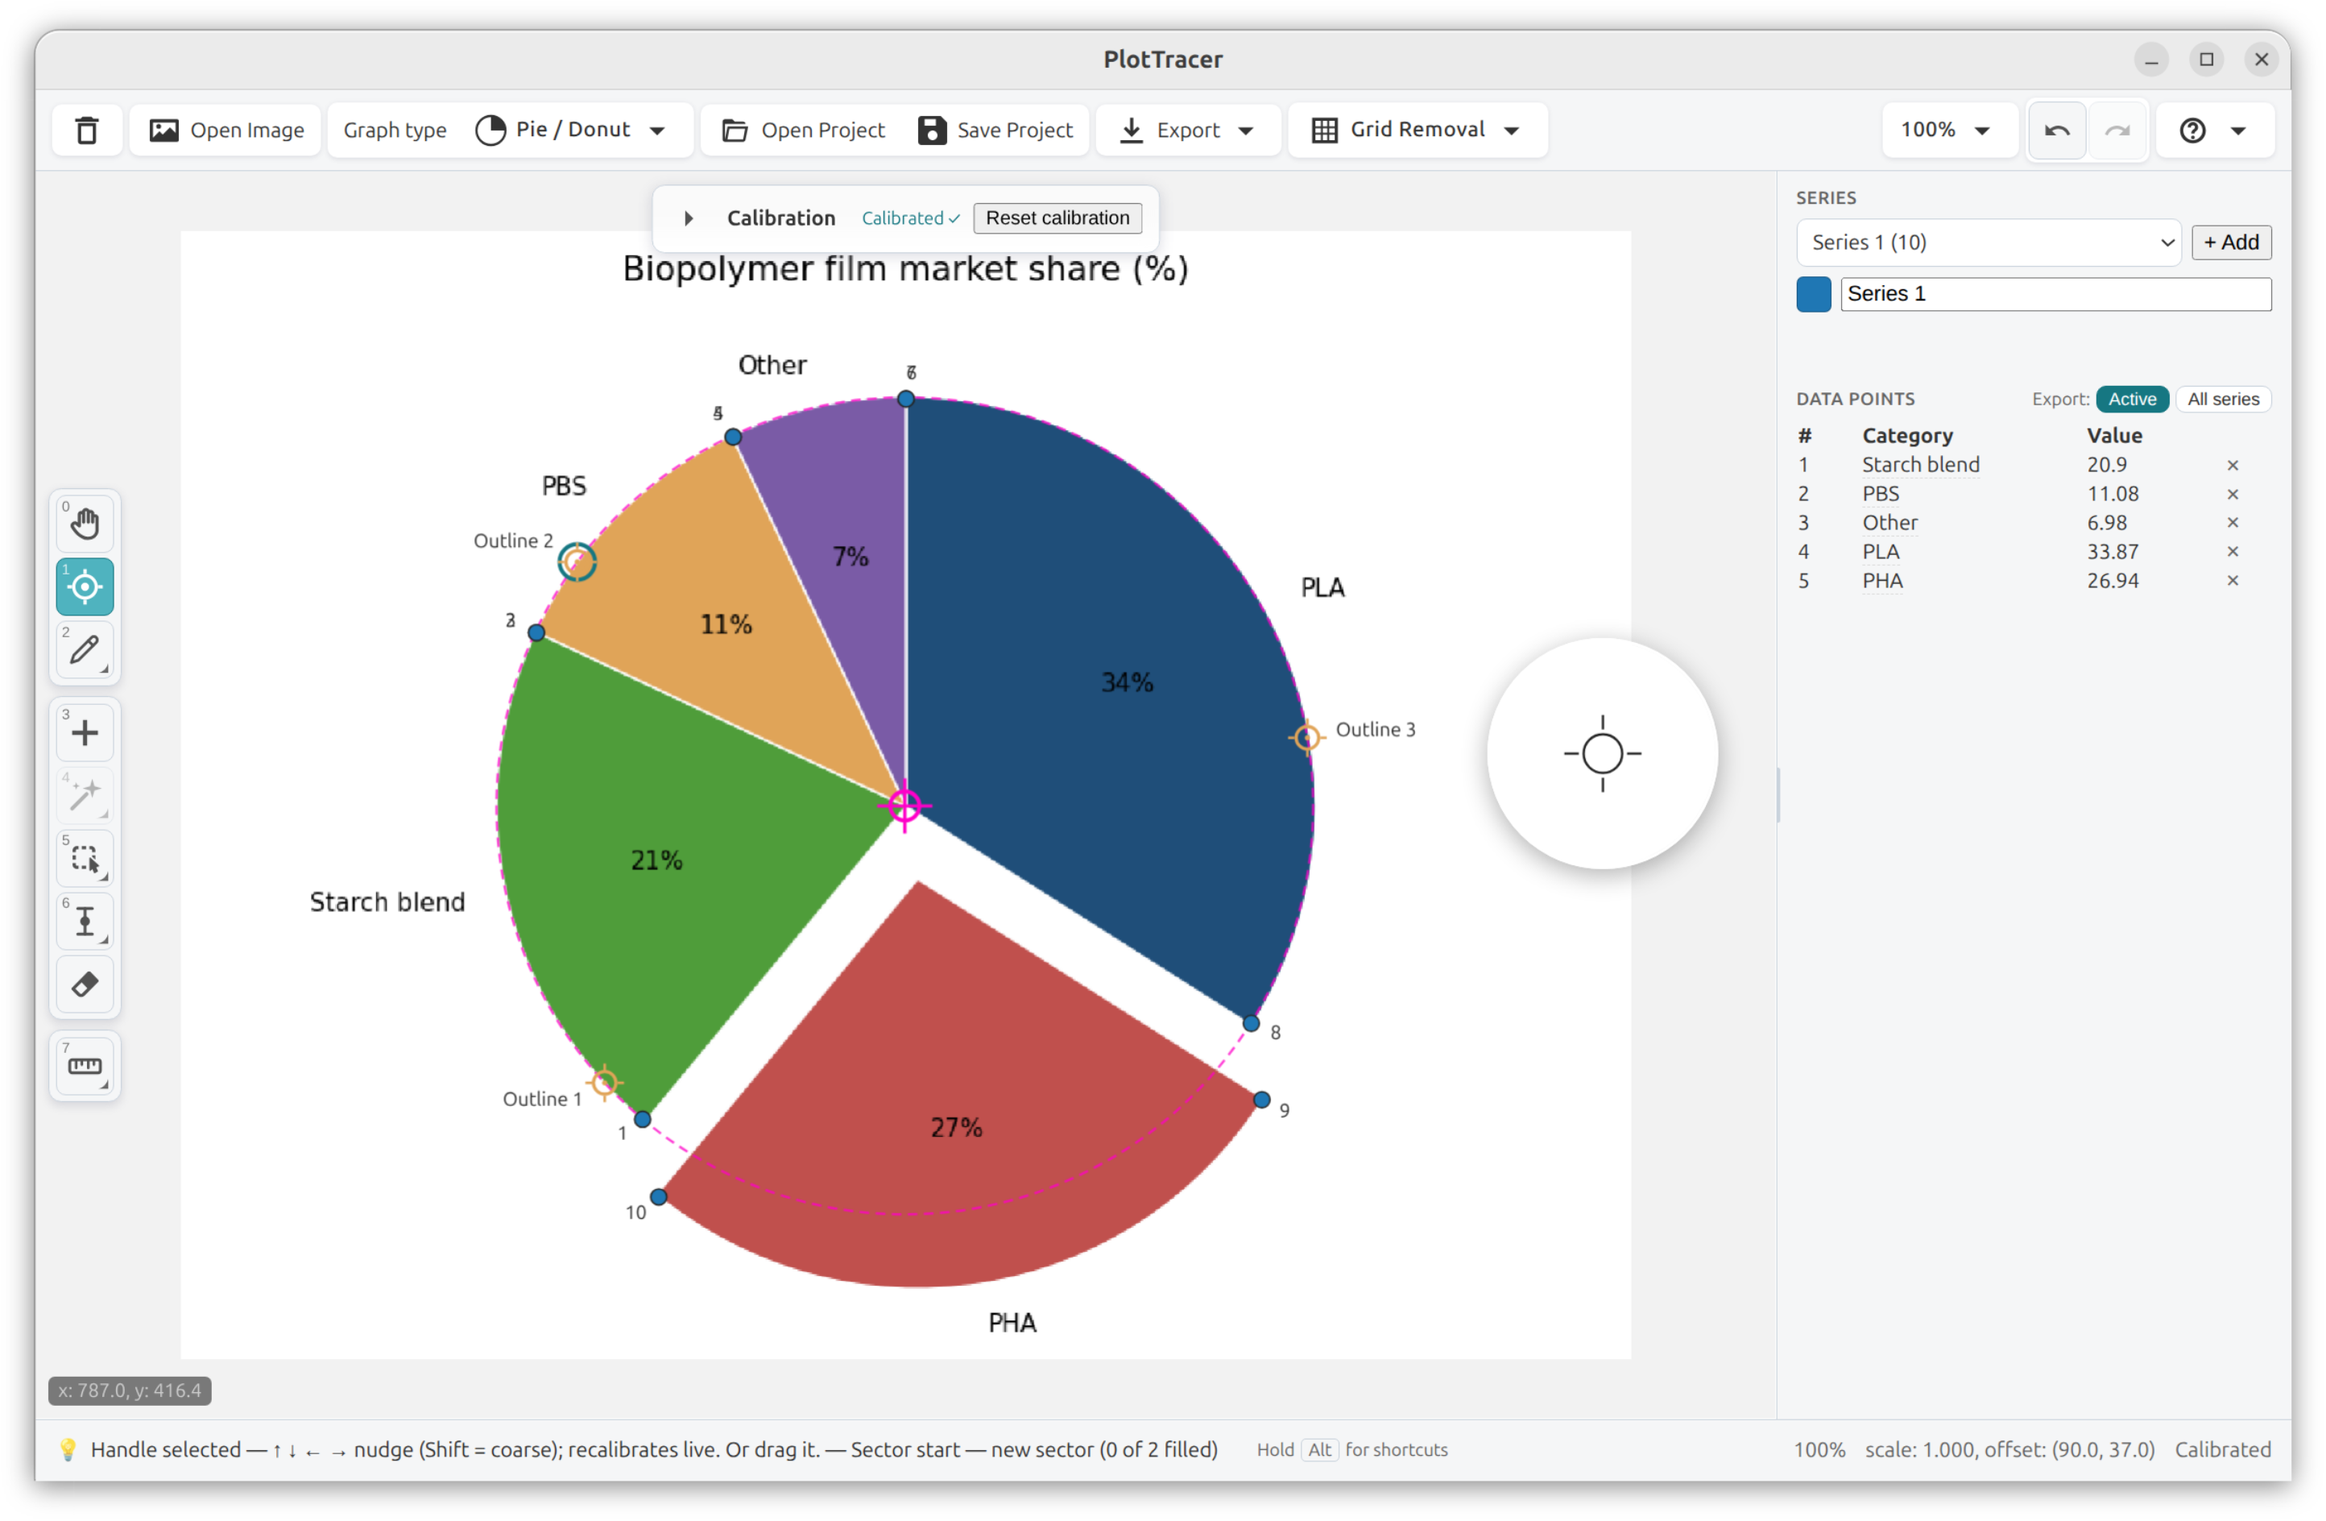
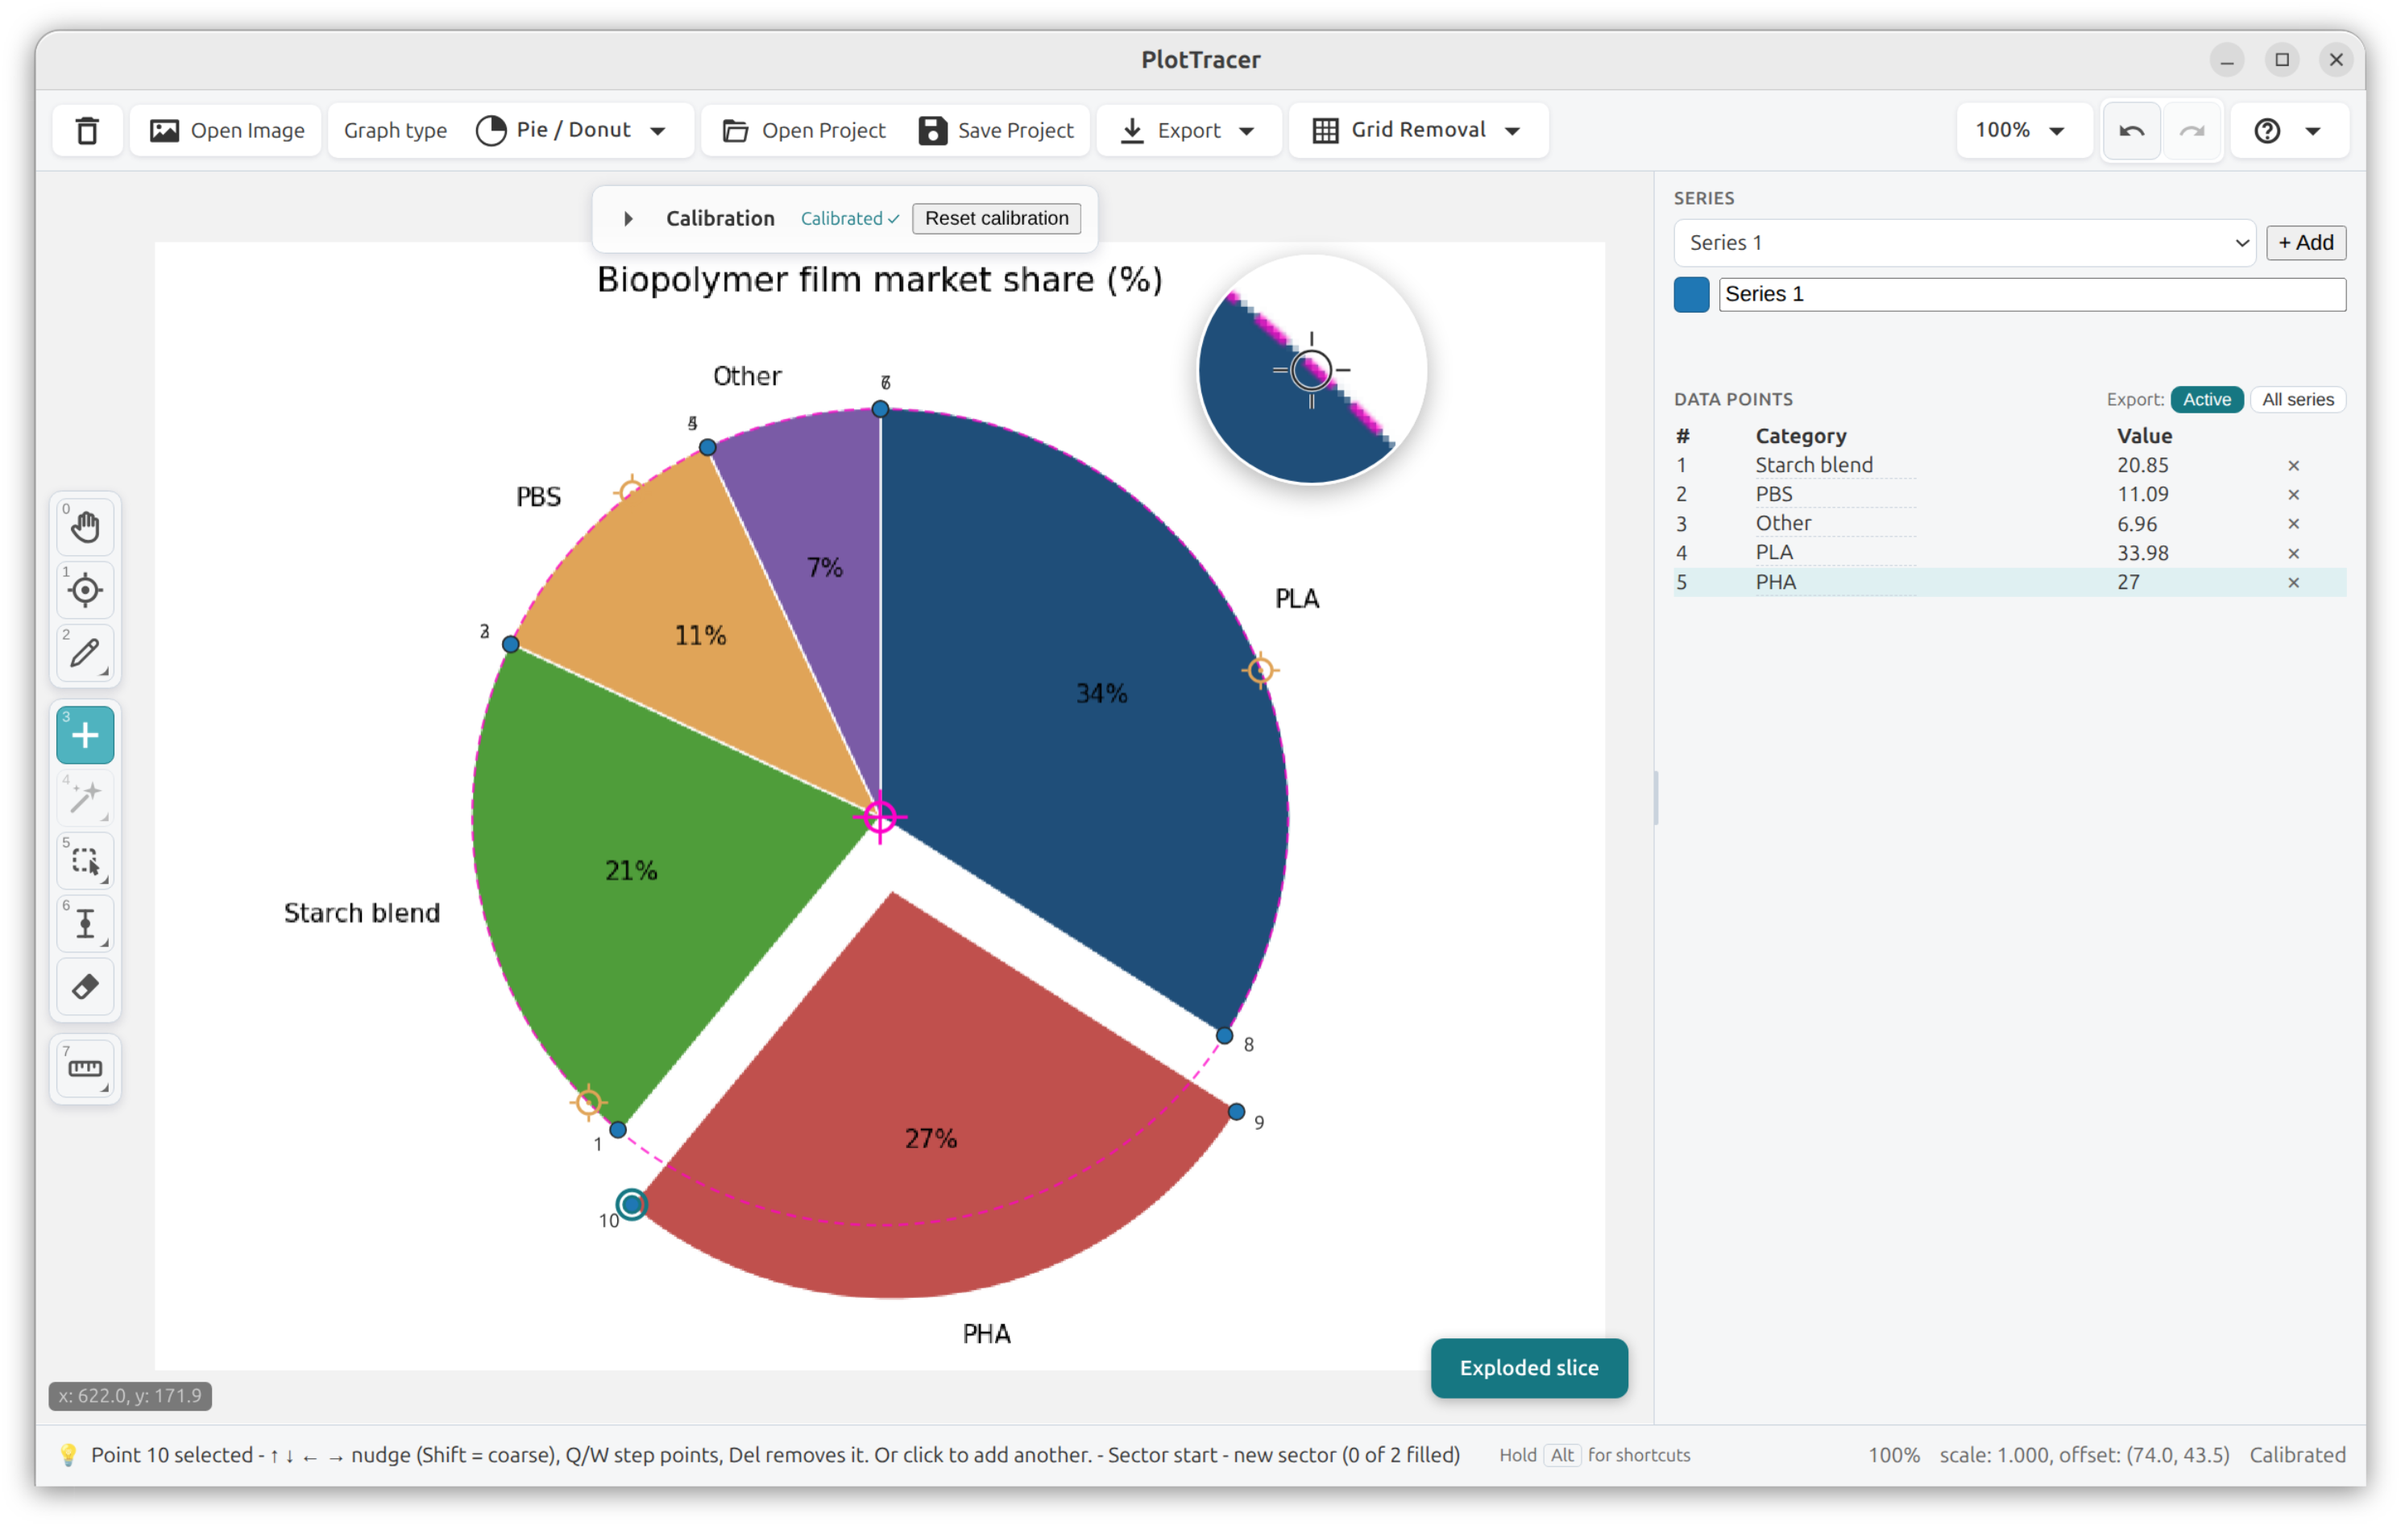
The pie card names its slices and sums to what this capture measured
Re-shot pie-exploded-market-share with the five categories typed in: PLA 33.98
against a printed 34, Starch blend 20.85 against 21, PBS 11.09 against 11, Other
6.96 against 7, PHA 27.00 against 27. They sum to 99.88, so the caption says
99.88 rather than the old capture's 99.77. The residual is the point: it is the
reader's evidence that the capture was good, and forcing it to 100 would make
every pie look equally perfect.

diff --git a/docs/index.html b/docs/index.html
@@ -511,9 +511,9 @@
         <figcaption><b>True histogram bins.</b> Records the interval each bar spans and its height - genuine bin edges, not just centres.</figcaption>
       </figure>
       <figure class="shot-card">
-        <img class="shot" src="assets/shot-pie.png" width="2888" height="1888"
+        <img class="shot" src="assets/shot-pie.png" width="2980" height="1894"
           alt="A pie chart in PlotTracer - biopolymer film market share - with one slice pulled away from the centre and captured about its own apex, the pie's centre fitted from points placed around the outline rather than clicked, and each sector's name and measured percentage listed in the right panel.">
-        <figcaption><b>Pie &amp; donut - including the slice pulled out.</b> The centre is <em>fitted</em> from the outline rather than clicked, which is what makes a donut, an exploded slice and a tilted 3D top face readable at all. Sectors are reported as measured - these five sum to 99.77%, not a tidied 100.</figcaption>
+        <figcaption><b>Pie &amp; donut - including the slice pulled out.</b> The centre is <em>fitted</em> from the outline rather than clicked, which is what makes a donut, an exploded slice and a tilted 3D top face readable at all. Sectors are reported as measured - these five sum to 99.88%, not a tidied 100.</figcaption>
       </figure>
       <figure class="shot-card">
         <img class="shot" src="assets/shot-spider.png" width="2888" height="1888"
